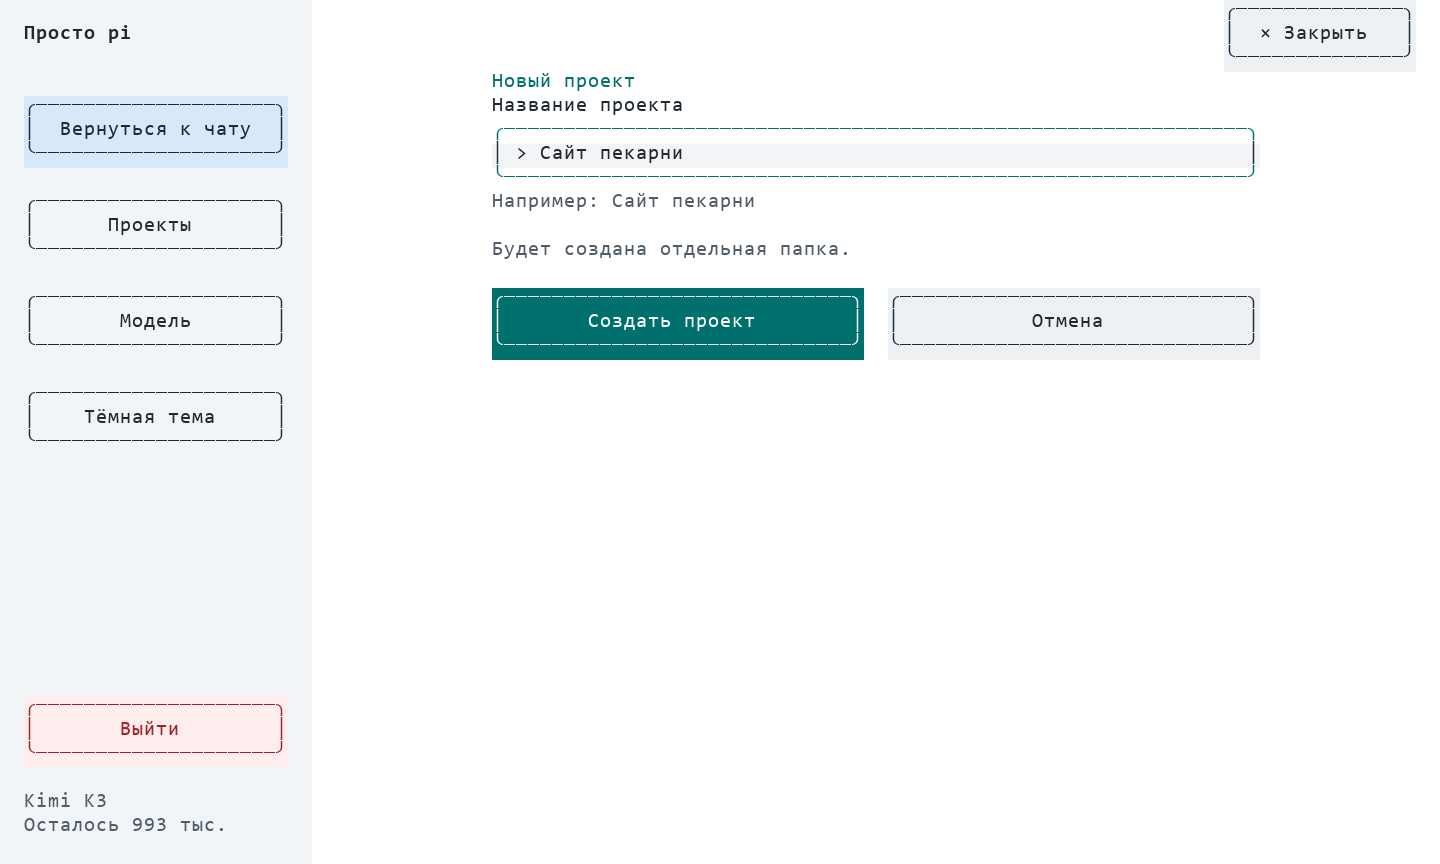
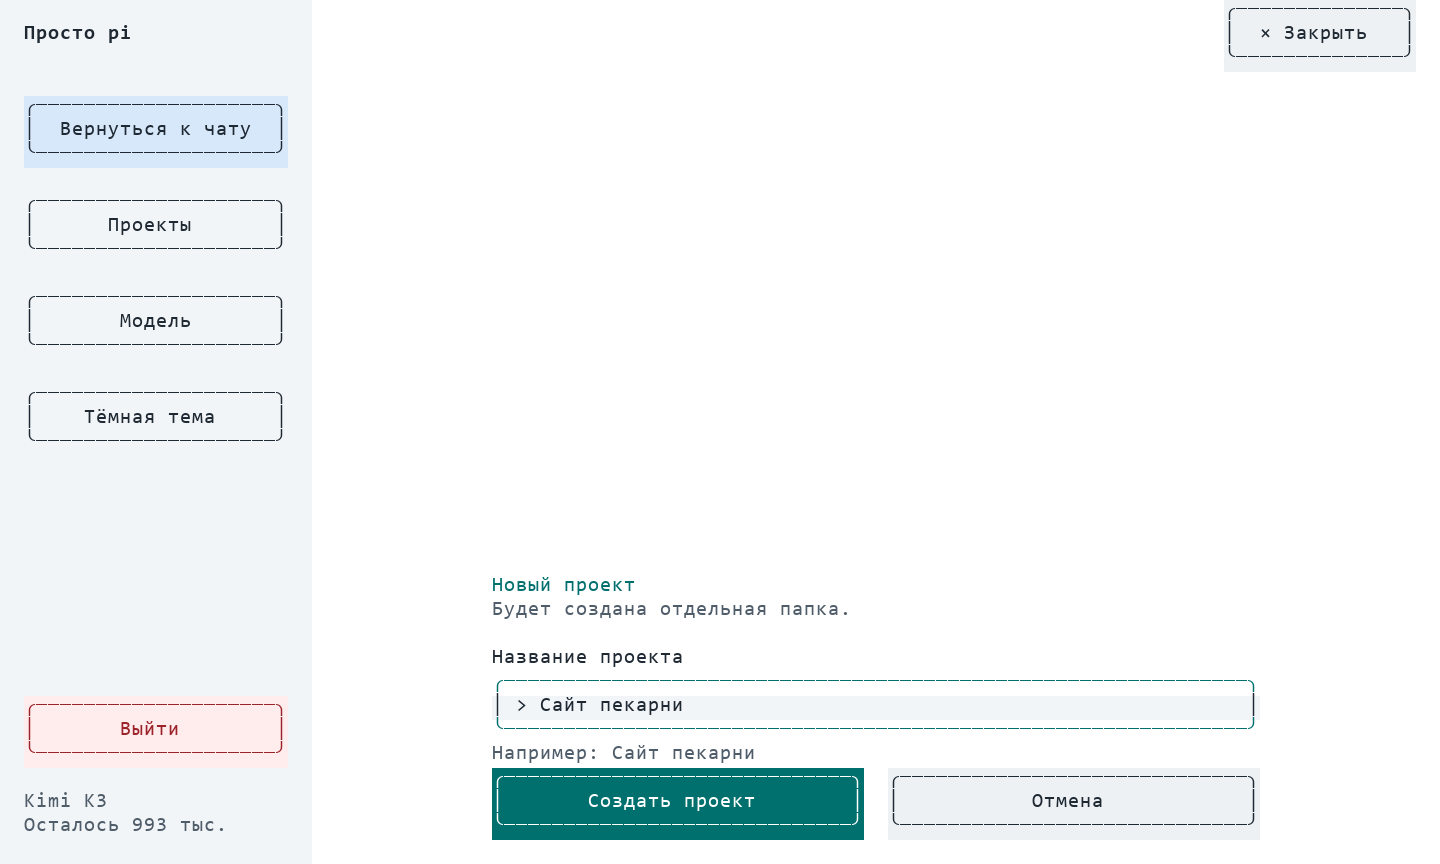
Place project name form near the bottom chat composer

diff --git a/README.md b/README.md
@@ -98,3 +98,5 @@ MIT.
 Кнопка «Выйти» недоступна во время ответа помощника. После завершения ответа она открывает подтверждение «Выйти / Отмена» поверх чата. Enter по умолчанию и Escape отменяют выход.
 
 Отправка сообщений разрешена только в зарегистрированном проекте. Общая папка запуска и другие папки без проекта открывают выбор «Новый проект / Выбрать проект», сохраняя текст. Старые сообщения в общей папке не снимают это ограничение.
+
+Форма названия нового проекта расположена внизу окна, рядом с привычным местом ввода сообщения.
